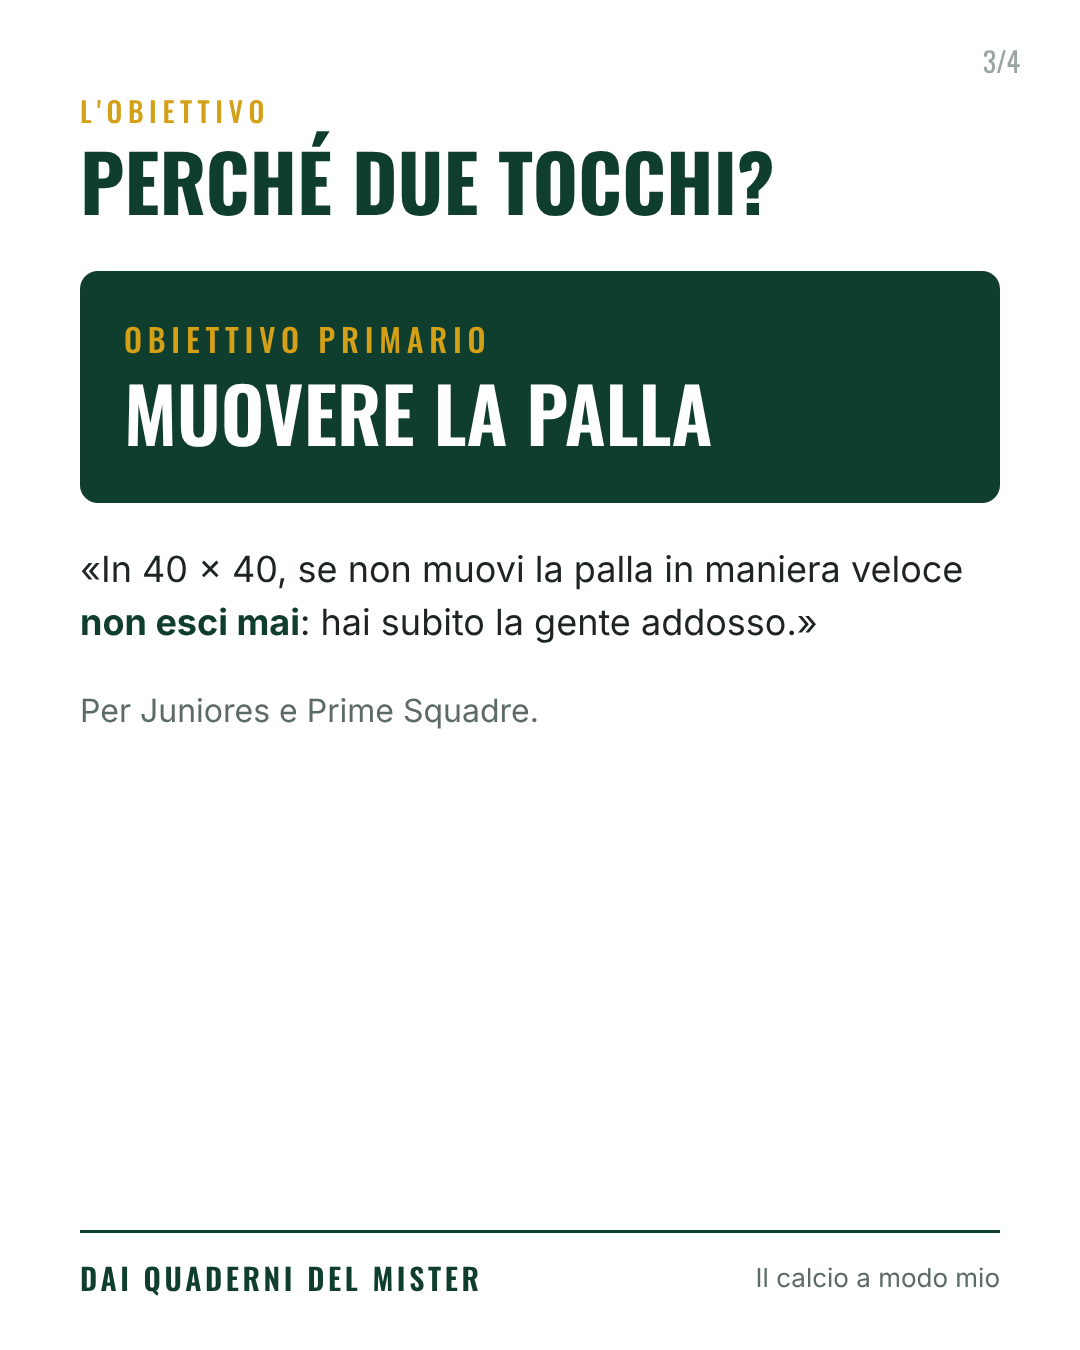
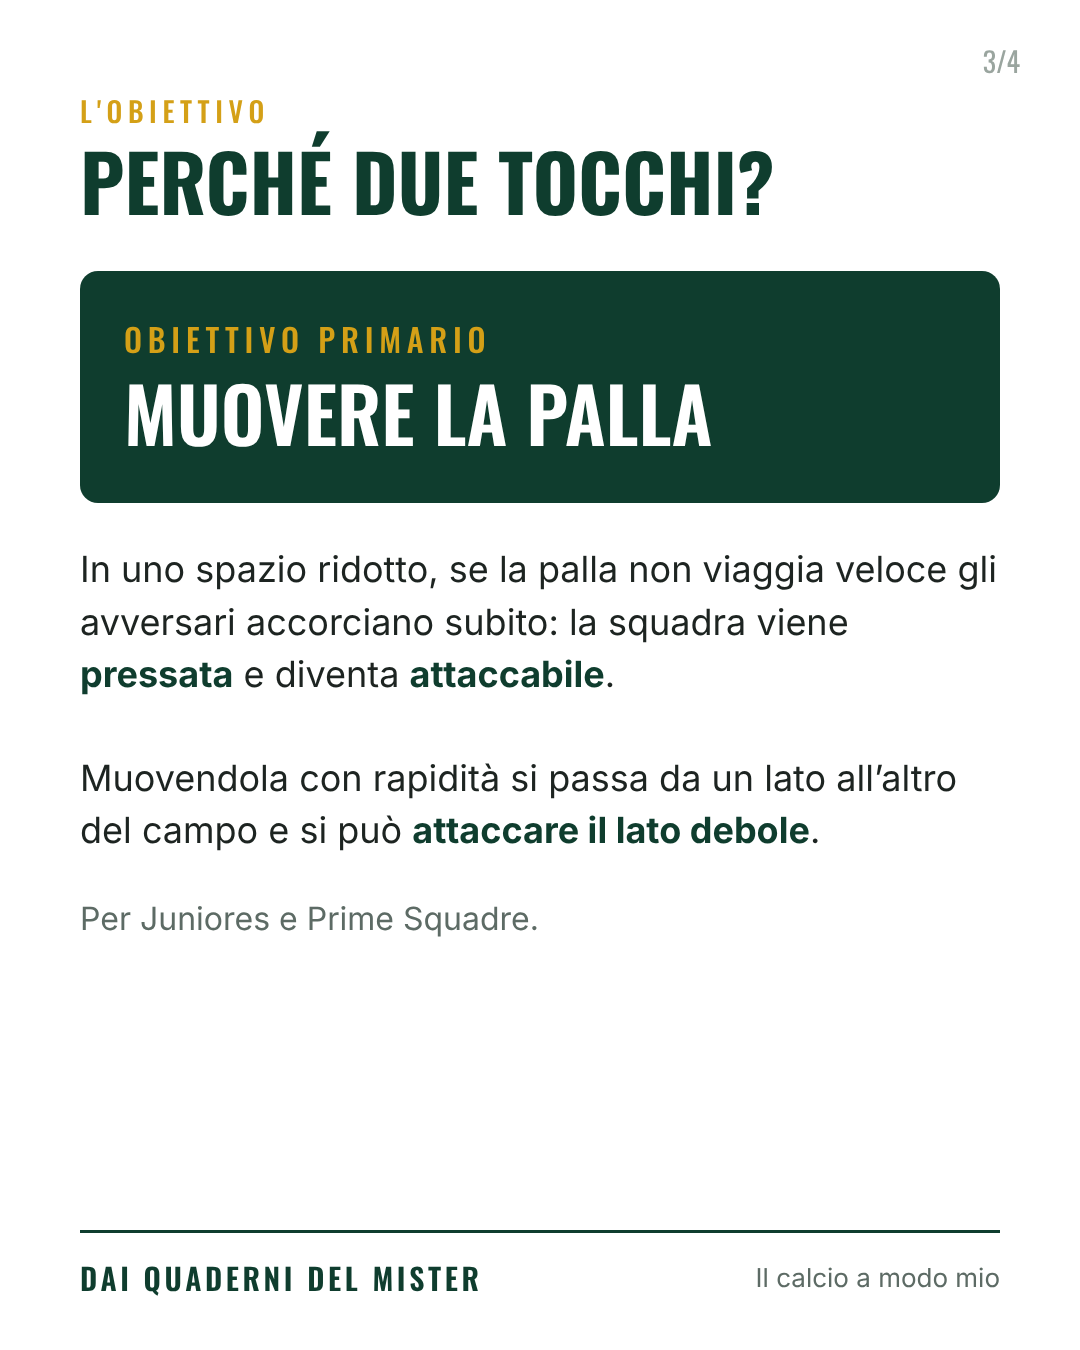
Post 11: appunti dell'allenatore riformulati; regola fissata in CLAUDE.md
Claude-Session: https://claude.ai/code/session_01Y6imChDnJpMKHUHGGzDa7m

Changed region(s): [[0.0611, 0.4044, 0.9167, 0.6222], [0.1528, 0.6533, 0.4889, 0.7156], [0.0611, 0.6533, 0.1222, 0.6844]]

diff --git a/marketing/social/post-solo11-4x5.html b/marketing/social/post-solo11-4x5.html
@@ -110,7 +110,7 @@ h1, h2 { font-family: Oswald, sans-serif; font-weight: 700; text-transform: uppe
   <div class="num">3/4</div>
   <div class="kicker">L'obiettivo</div>
   <h2 style="">Perché due tocchi?</h2>
-  <div class="obiettivo"><span>Obiettivo primario</span>Muovere la palla</div><p class="desc">«In 40 × 40, se non muovi la palla in maniera veloce <b>non esci mai</b>: hai subito la gente addosso.»</p><p class="desc" style="color:#5d6b65;font-size:32px">Per Juniores e Prime Squadre.</p>
+  <div class="obiettivo"><span>Obiettivo primario</span>Muovere la palla</div><p class="desc">In uno spazio ridotto, se la palla non viaggia veloce gli avversari accorciano subito: la squadra viene <b>pressata</b> e diventa <b>attaccabile</b>.<br><br>Muovendola con rapidità si passa da un lato all’altro del campo e si può <b>attaccare il lato debole</b>.</p><p class="desc" style="color:#5d6b65;font-size:32px">Per Juniores e Prime Squadre.</p>
   <div class="marchio"><b>DAI QUADERNI DEL MISTER</b><span>Il calcio a modo mio</span></div>
 </section>
 <section class="slide fine">

diff --git a/marketing/social/post-solo11-9x16.html b/marketing/social/post-solo11-9x16.html
@@ -110,7 +110,7 @@ h1, h2 { font-family: Oswald, sans-serif; font-weight: 700; text-transform: uppe
   <div class="num">3/4</div>
   <div class="kicker">L'obiettivo</div>
   <h2 style="">Perché due tocchi?</h2>
-  <div class="obiettivo"><span>Obiettivo primario</span>Muovere la palla</div><p class="desc">«In 40 × 40, se non muovi la palla in maniera veloce <b>non esci mai</b>: hai subito la gente addosso.»</p><p class="desc" style="color:#5d6b65;font-size:32px">Per Juniores e Prime Squadre.</p>
+  <div class="obiettivo"><span>Obiettivo primario</span>Muovere la palla</div><p class="desc">In uno spazio ridotto, se la palla non viaggia veloce gli avversari accorciano subito: la squadra viene <b>pressata</b> e diventa <b>attaccabile</b>.<br><br>Muovendola con rapidità si passa da un lato all’altro del campo e si può <b>attaccare il lato debole</b>.</p><p class="desc" style="color:#5d6b65;font-size:32px">Per Juniores e Prime Squadre.</p>
   <div class="marchio"><b>DAI QUADERNI DEL MISTER</b><span>Il calcio a modo mio</span></div>
 </section>
 <section class="slide fine">

diff --git a/marketing/social/genera-post.py b/marketing/social/genera-post.py
@@ -389,7 +389,7 @@ POST = [
                         "Il gol vale solo se <b>tutti e due gli esterni</b> hanno toccato la palla"], compact=True,
                  h2style="margin-bottom:20px", riqstyle="width:100%;max-width:700px;margin:0 auto"),
             dict(kicker="L'obiettivo", titolo="Perché due tocchi?",
-                 html='<div class="obiettivo"><span>Obiettivo primario</span>Muovere la palla</div><p class="desc">«In 40 × 40, se non muovi la palla in maniera veloce <b>non esci mai</b>: hai subito la gente addosso.»</p><p class="desc" style="color:#5d6b65;font-size:32px">Per Juniores e Prime Squadre.</p>'),
+                 html='<div class="obiettivo"><span>Obiettivo primario</span>Muovere la palla</div><p class="desc">In uno spazio ridotto, se la palla non viaggia veloce gli avversari accorciano subito: la squadra viene <b>pressata</b> e diventa <b>attaccabile</b>.<br><br>Muovendola con rapidità si passa da un lato all’altro del campo e si può <b>attaccare il lato debole</b>.</p><p class="desc" style="color:#5d6b65;font-size:32px">Per Juniores e Prime Squadre.</p>'),
         ],
         fine_h1="Muovere<span>la palla</span>",
         fine_sub="Le idee dei quaderni escono prima sul canale WhatsApp <b>Il calcio a modo mio</b>. Link in bio.",

diff --git a/marketing/social/testi-dei-post.md b/marketing/social/testi-dei-post.md
@@ -216,7 +216,7 @@ Vuoi una squadra che impari a pressare nel modo giusto e a colpire dopo aver rec
 Uno va in pressione. E gli altri? Pressare è individuale, farlo insieme si allena. #allenatore #calcio #pressing #mister
 
 ## Post 11 – "Il gol vale solo se l'hanno toccata gli esterni" (sabato 31/10, 13:00, 4 slide, tema avorio)
-Dalla nota dell'allenatore del 30/10 (`materiale/da-classificare/note-2026-10-30-tre-partite-40m.png`), I partita: campo 40 × 40 m (detto da lui), 2 tocchi, esterni fuori dal campo (detto da lui), gol valido solo se tutti e due gli esterni toccano la palla. Obiettivo primario (suo): muovere la palla. Correzione dell'allenatore (30/10): si gioca da 7c7 a 11c11 sempre nel 40 × 40, gli esterni stanno nella metà campo offensiva, a 2 tocchi perché con Juniores e Prime Squadre "se non muovi la palla in maniera veloce non esci mai, hai subito la gente addosso" (frase sua nella slide 3). Disegno di Claude: ogni squadra con i suoi due esterni, fuori dal campo lungo la propria metà offensiva (da confermare). Slide con la domanda tolta dall'allenatore.
+Dalla nota dell'allenatore del 30/10 (`materiale/da-classificare/note-2026-10-30-tre-partite-40m.png`), I partita: campo 40 × 40 m (detto da lui), 2 tocchi, esterni fuori dal campo (detto da lui), gol valido solo se tutti e due gli esterni toccano la palla. Obiettivo primario (suo): muovere la palla. Correzione dell'allenatore (30/10): si gioca da 7c7 a 11c11 sempre nel 40 × 40, gli esterni stanno nella metà campo offensiva, a 2 tocchi perché con Juniores e Prime Squadre "se non muovi la palla in maniera veloce non esci mai, hai subito la gente addosso" (riformulata in modo professionale nella slide 3: pressata e attaccabile, attaccare il lato debole). Disegno di Claude: ogni squadra con i suoi due esterni, fuori dal campo lungo la propria metà offensiva (da confermare). Slide con la domanda tolta dall'allenatore.
 
 **Didascalia Instagram / Facebook**
 Il gol vale solo se l'hanno toccata tutti e due gli esterni.

diff --git a/CLAUDE.md b/CLAUDE.md
@@ -10,7 +10,8 @@ Categoria** (Toscana): allenamenti **mercoledì e venerdì 18-21** (quei giorni 
 - Scrive in italiano, spesso dal telefono, a volte con messaggi vocali trascritti. Rispondere
   in italiano, con calma, un passo alla volta e senza elenchi lunghi di opzioni.
 - **Non mettere la virgola prima di "e"**, salvo incisi o ripetizioni enfatiche.
-- **Appunti → scrittura professionale (16/10)**: l'allenatore detta o scrive le cose come appunti (anche con errori da dettatura); Claude le riscrive in forma chiara e professionale nei post e nei PDF, tenendo il senso e segnalando cosa è stato aggiunto.
+- **Appunti → scrittura professionale (16/10, ribadita il 30/10 "per sempre")**: mai citare tra virgolette le sue frasi dette a voce o scritte di corsa; sono appunti da riformulare in forma professionale nei post, nelle didascalie e nei PDF.
+  Dettaglio: l'allenatore detta o scrive le cose come appunti (anche con errori da dettatura); Claude le riscrive in forma chiara e professionale nei post e nei PDF, tenendo il senso e segnalando cosa è stato aggiunto.
 - Manda **foto dei fogli scritti a mano** (o note dal telefono) di un allenamento alla volta.
 - Flusso: trascrivere → impaginare il PDF → inviarlo → fare **poche domande precise** solo
   sui punti illeggibili o ambigui → correggere.
